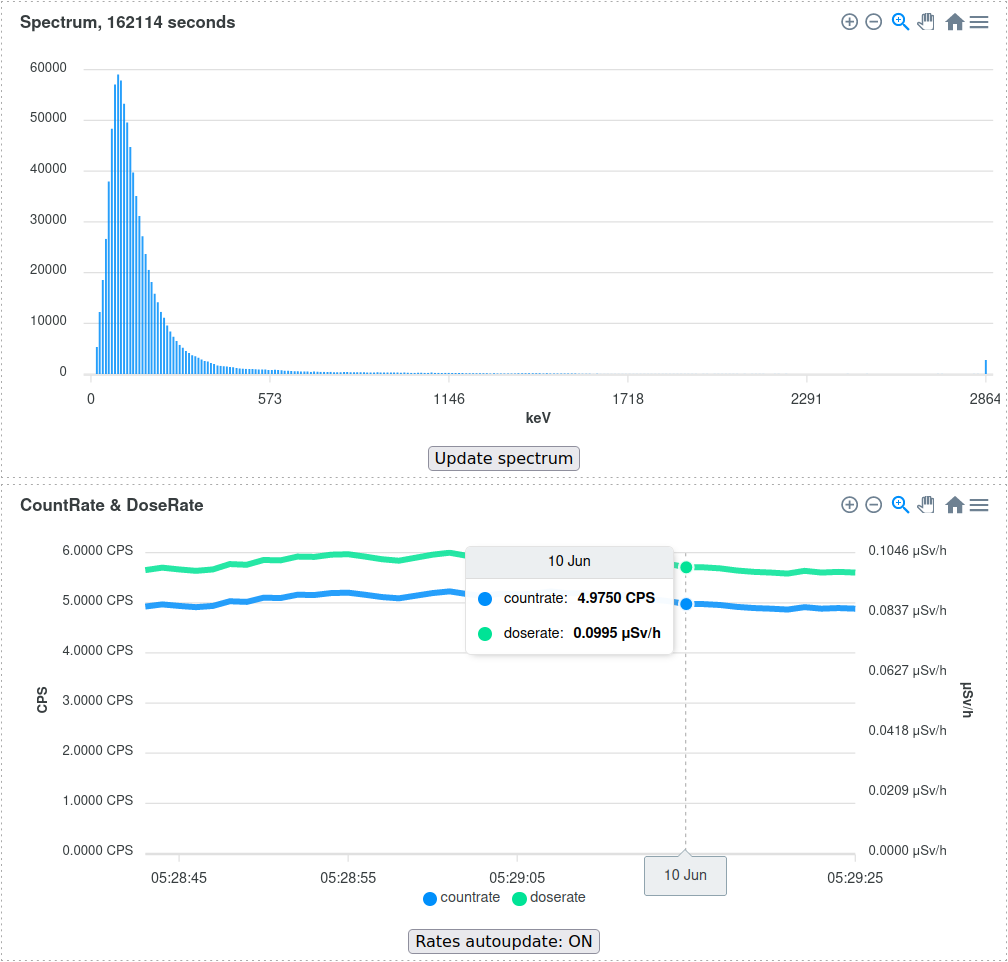
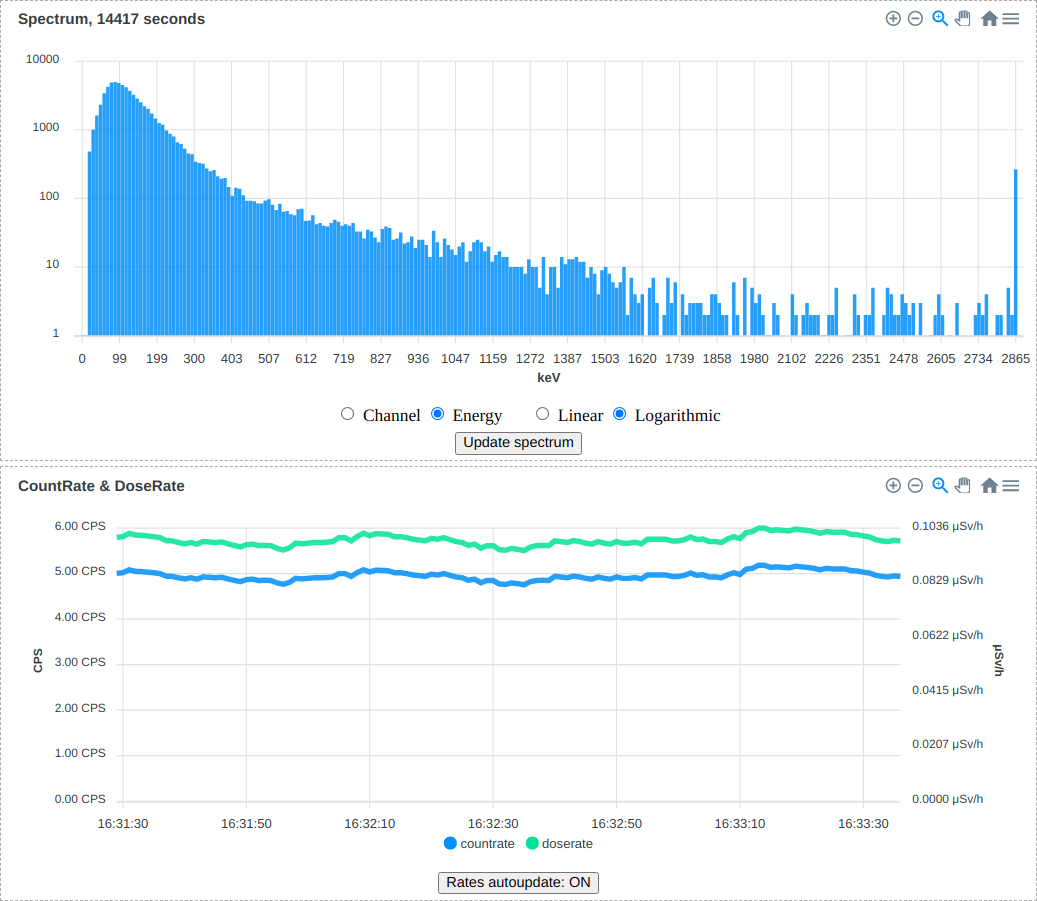
example: configurable x axis - channel or energy

diff --git a/radiacode-examples/webserver.html b/radiacode-examples/webserver.html
@@ -15,16 +15,30 @@
   padding: 5px;
   border: 1px #aaa dashed;
 }
+#app fieldset {
+  display: inline-block;
+  border: 0;
+  padding: 0;
+  margin-left: 20px;
+}
 </style>
 <body>
 <div id="app">
   <div>
     <apexchart type="bar" height="350" :options="spectrumChartOptions" :series="spectrum_series"></apexchart>
     <div>
-      <input type="radio" id="spectrum_linear" v-bind:value="false" v-model="spectrum_logarithmic">
-      <label for="spectrum_linear">Linear</label>
-      <input type="radio" id="spectrum_log" v-bind:value="true" v-model="spectrum_logarithmic">
-      <label for="spectrum_log">Logarithmic</label>
+      <fieldset>
+        <input type="radio" id="spectrum_x_channel" v-bind:value="false" v-model="spectrum_energy">
+        <label for="spectrum_x_channel">Channel</label>
+        <input type="radio" id="spectrum_x_energy" v-bind:value="true" v-model="spectrum_energy">
+        <label for="spectrum_x_energy">Energy</label>
+      </fieldset>
+      <fieldset>
+        <input type="radio" id="spectrum_linear" v-bind:value="false" v-model="spectrum_logarithmic">
+        <label for="spectrum_linear">Linear</label>
+        <input type="radio" id="spectrum_log" v-bind:value="true" v-model="spectrum_logarithmic">
+        <label for="spectrum_log">Logarithmic</label>
+      </fieldset>
     </div>
     <button @click="updateSpectrum">Update spectrum</button>
   </div>
@@ -56,25 +70,31 @@ var app = new Vue({
       rates_autoupdate: true,
       rates_series: [],
       spectrum_series: [],
+      spectrum_coef: [0, 0, 0],
       spectrum_logarithmic: true,
+      spectrum_energy: true,
       ratesChartOptions: {
         ...common_options,
         title: {text: 'CountRate & DoseRate'},
         xaxis: {type: 'datetime'},
         yaxis: [
-          {seriesName: 'countrate', decimalsInFloat: 2, title: {text: 'CPS'}, labels: {formatter:(v) => v.toFixed(4) + ' CPS'}},
-          {seriesName: 'doserate',  decimalsInFloat: 2, title: {text: 'μSv/h'}, labels: {formatter:(v) => v.toFixed(4) + ' μSv/h'}, opposite: true},
+          {seriesName: 'countrate', title: {text: 'CPS'}, labels: {formatter:(v) => v.toFixed(2) + ' CPS'}},
+          {seriesName: 'doserate',  title: {text: 'μSv/h'}, labels: {formatter:(v) => v.toFixed(4) + ' μSv/h'}, opposite: true},
         ],
       },
     };
   },
   computed: {
     spectrumChartOptions() {
+      const a0 = this.spectrum_coef[0], a1 = this.spectrum_coef[1], a2 = this.spectrum_coef[2];
+      const fmt = this.spectrum_energy ? ((c) => (a0 + a1*c + a2*c*c).toFixed(0)) : undefined;
+      const title = this.spectrum_energy ? 'keV' : 'channel';
       return{
         ...common_options,
         title: {text: `Spectrum, ${this.spectrum_duration} seconds`},
-        xaxis: {type: 'numeric', title: {text: 'keV'}, tickAmount: 25},
+        xaxis: {type: 'numeric', title: {text: title}, tickAmount: 25, labels: {formatter:fmt}},
         yaxis: {logarithmic: this.spectrum_logarithmic, decimalsInFloat: 0},
+        plotOptions: {bar: {columnWidth: '95%'}},
       };
     },
   },
@@ -97,7 +117,7 @@ var app = new Vue({
     updateSpectrum() {
       fetch('/spectrum')
         .then(response => response.json())
-        .then(data => (this.spectrum_duration=data.duration, this.spectrum_series=data.series));
+        .then(data => (this.spectrum_duration=data.duration, this.spectrum_coef=data.coef, this.spectrum_series=data.series));
     },
   },
 });

diff --git a/radiacode-examples/webserver.py b/radiacode-examples/webserver.py
@@ -5,7 +5,7 @@ import pathlib
 
 from aiohttp import web
 
-from radiacode import CountRate, DoseRate, RadiaCode, spectrum_channel_to_energy
+from radiacode import CountRate, DoseRate, RadiaCode
 
 
 async def handle_index(request):
@@ -24,14 +24,15 @@ async def handle_ws(request):
 
 async def handle_spectrum(request):
     spectrum = request.app.rc_conn.spectrum()
+    # apexcharts can't handle 0 in logarithmic view
     spectrum_data = [
-        #  apexcharts can't handle 0 in logarithmic view
-        (int(spectrum_channel_to_energy(channel, spectrum.a0, spectrum.a1, spectrum.a2)), cnt if cnt > 0 else 0.5)
+        (channel, cnt if cnt > 0 else 0.5)
         for channel, cnt in enumerate(spectrum.counts)
     ]
     print('Spectrum updated')
     return web.json_response(
         {
+            'coef': [spectrum.a0, spectrum.a1, spectrum.a2],
             'duration': spectrum.duration.total_seconds(),
             'series': [{'name': 'spectrum', 'data': spectrum_data}],
         },
